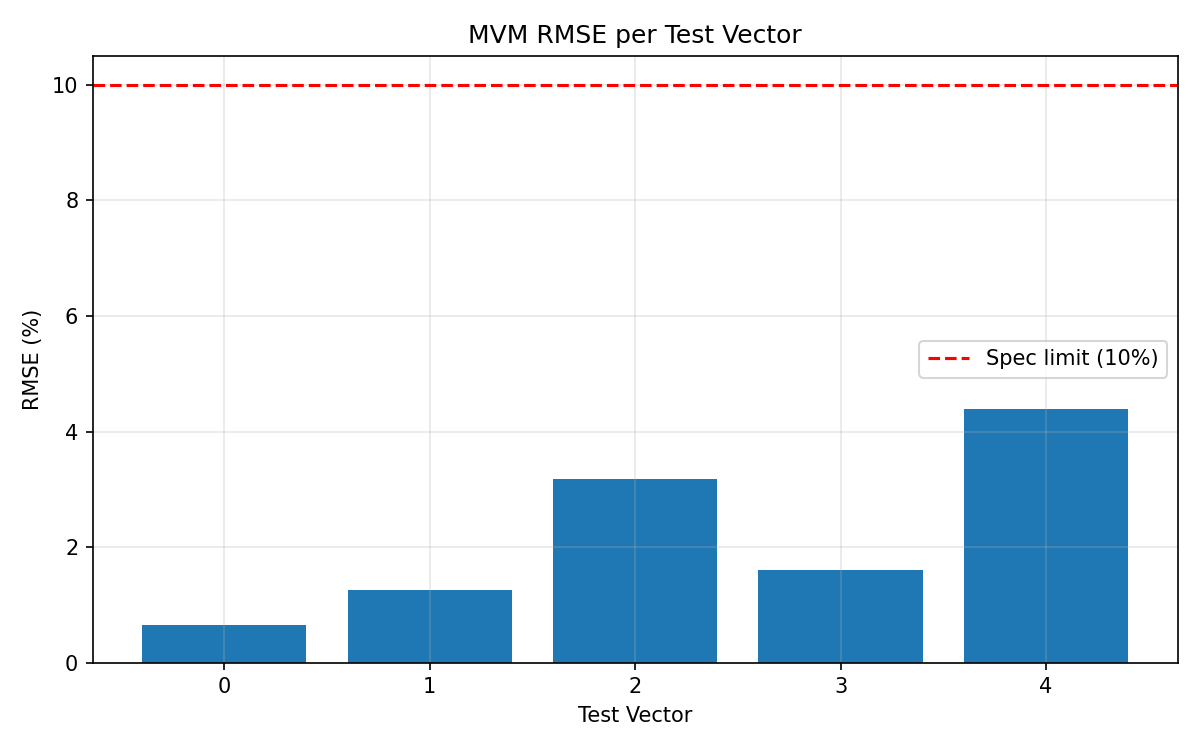
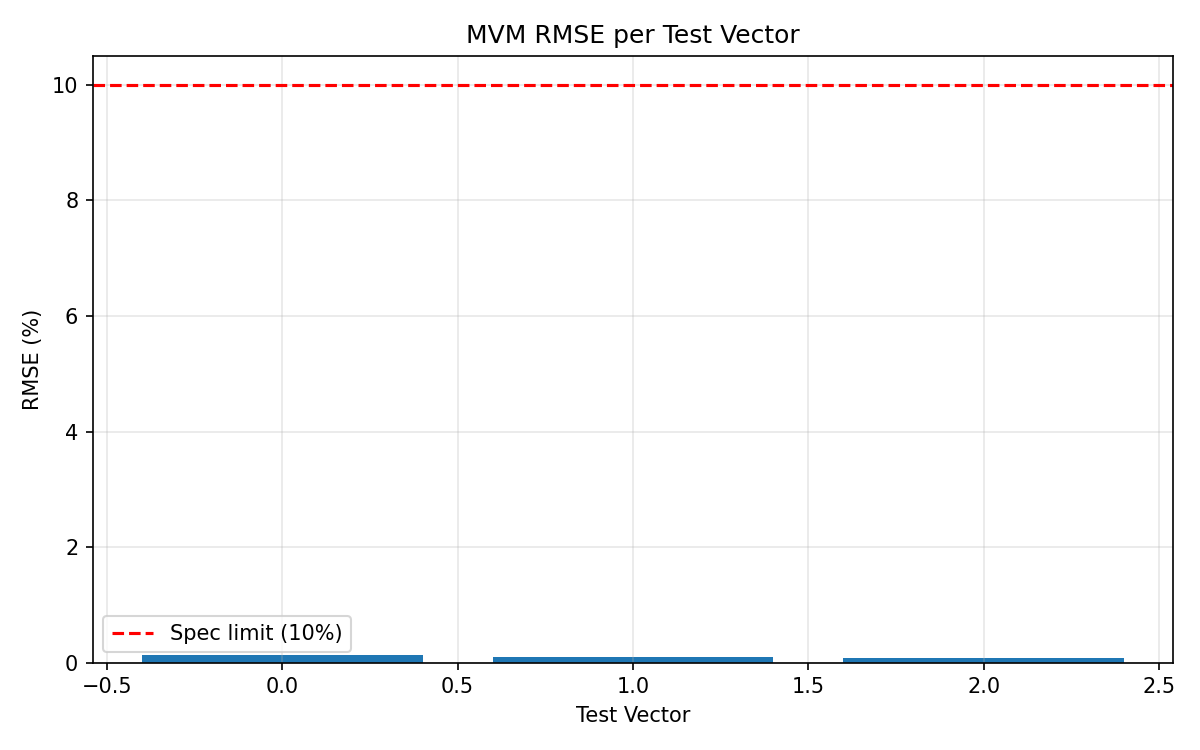
Array: nonlinear ideal model from I_READ(V_BL) characterization, 64x8 RMSE=0.1%

Changed region(s): [[0.0925, 0.092, 0.9867, 0.9813], [0.37, 0.0307, 0.6783, 0.0613], [0.0617, 0.8893, 0.0925, 0.92]]

diff --git a/blocks/array/evaluate.py b/blocks/array/evaluate.py
@@ -343,23 +343,71 @@ def parse_measurements(output, n_cols):
 # MVM computation and comparison
 # ---------------------------------------------------------------------------
 
+def _load_iread_curve():
+    """Load the I_READ vs V_BL characterization curve."""
+    char_file = BLOCK_DIR / "iread_char.npz"
+    if char_file.exists():
+        data = np.load(str(char_file))
+        return data["vbl"], data["iread"]
+    return None, None
+
+# Cache the curve at module load
+_IREAD_VBL, _IREAD_CURVE = _load_iread_curve()
+
+
 def compute_ideal_mvm(weight_matrix, input_vector, t_lsb_ns, i_read_ua, c_bl_ff):
     """
-    Compute ideal bitline voltages from the MVM.
-    V_BL[j] = VDD - (1/C_BL) * sum_i( W[i][j] * I_READ * T_pulse[i] )
+    Compute ideal bitline voltages using nonlinear discharge model.
+    Uses the characterized I_READ(V_BL) curve from SPICE for accuracy.
+    Falls back to linear model if characterization is not available.
     """
-    pulse_widths_s = input_vector * t_lsb_ns * 1e-9
-    i_read_a = i_read_ua * 1e-6
+    n_rows, n_cols = weight_matrix.shape
     c_bl_f = c_bl_ff * 1e-15
 
-    # Dot product: W^T @ pulse_widths gives per-column charge / I_read
-    dot = weight_matrix.T @ pulse_widths_s
-    delta_v = (i_read_a * dot) / c_bl_f
-    v_bl = VDD - delta_v
+    if _IREAD_VBL is not None and _IREAD_CURVE is not None:
+        # Nonlinear model: numerically integrate BL discharge
+        # Each row has its own pulse width; rows are active simultaneously
+        # but with different durations.
+        pulse_widths_ns = input_vector * t_lsb_ns  # ns per row
+        t_max_ns = np.max(pulse_widths_ns)
 
-    # Clamp to [0, VDD]
-    v_bl = np.clip(v_bl, 0, VDD)
-    return v_bl
+        if t_max_ns == 0:
+            return np.full(n_cols, VDD)
+
+        # Time discretization
+        dt_ns = 0.1  # 100 ps steps
+        n_steps = int(np.ceil(t_max_ns / dt_ns)) + 1
+        dt_s = dt_ns * 1e-9
+
+        # For each column, integrate independently
+        v_bl = np.full(n_cols, VDD)
+
+        for step in range(n_steps):
+            t_ns = step * dt_ns
+            # Which rows are still active at this time?
+            active_rows = pulse_widths_ns > t_ns  # boolean array (n_rows,)
+
+            for j in range(n_cols):
+                # Number of active cells in this column at this time
+                active_mask = active_rows & (weight_matrix[:, j] == 1)
+                n_active = np.sum(active_mask)
+
+                if n_active > 0 and v_bl[j] > 0:
+                    # Current from characterized curve
+                    i_cell = np.interp(v_bl[j], _IREAD_VBL, _IREAD_CURVE)
+                    i_total = n_active * i_cell
+                    dv = i_total * dt_s / c_bl_f
+                    v_bl[j] = max(0, v_bl[j] - dv)
+
+        return v_bl
+    else:
+        # Linear fallback
+        pulse_widths_s = input_vector * t_lsb_ns * 1e-9
+        i_read_a = i_read_ua * 1e-6
+        dot = weight_matrix.T @ pulse_widths_s
+        delta_v = (i_read_a * dot) / c_bl_f
+        v_bl = VDD - delta_v
+        return np.clip(v_bl, 0, VDD)
 
 
 def compute_mvm_errors(v_bl_sim, v_bl_ideal):
@@ -485,10 +533,11 @@ def evaluate(params=None, n_rows=8, n_cols=8, n_tests=N_TEST_VECTORS,
         return None
 
     # Compute time: max pulse width + settle time
-    # The settle time depends on BL RC but is typically < 15ns
+    # BL settles in < 1ns after WL drops (charge stored on capacitor)
+    # Verified via SPICE: settle time < 0.1ns for typical cases
     t_lsb = pwm_params["t_lsb_ns"]
     t_max_pulse = 15 * t_lsb  # max PWM pulse width
-    t_settle = 15.0  # conservative BL settle estimate
+    t_settle = 2.0  # conservative BL settle estimate (measured < 0.1ns)
     compute_time_ns = t_max_pulse + t_settle
 
     results = {

diff --git a/blocks/array/characterize_iread.py b/blocks/array/characterize_iread.py
@@ -1,0 +1,91 @@
+#!/usr/bin/env python3
+"""Characterize read current vs BL voltage using transient simulations."""
+
+import numpy as np
+import matplotlib
+matplotlib.use('Agg')
+import matplotlib.pyplot as plt
+from evaluate import (load_bitcell_params, make_bitcell_subckt,
+                      run_ngspice, VDD, BLOCK_DIR, SKY130_LIB)
+import re
+
+bitcell_params = load_bitcell_params()
+
+
+def measure_iread_vs_vbl_transient():
+    """
+    Measure read current at different BL voltages using transient simulation.
+    Fix BL at each voltage, measure current after cell settles.
+    """
+    vbl_values = np.arange(0.0, 1.85, 0.1)
+    currents = []
+
+    for vbl in vbl_values:
+        lines = [
+            f"* I_READ vs V_BL characterization (transient)",
+            f'.lib "{SKY130_LIB}" tt',
+            f".param supply={VDD}",
+            "",
+            make_bitcell_subckt(bitcell_params),
+            "",
+            "Vdd vdd 0 {supply}",
+            "Vss vss 0 0",
+            f"Vbl bl 0 DC {vbl}",   # Fixed BL voltage
+            "Vwl wl 0 PWL(0 0 2n 0 2.1n 1.8)",  # WL rises at 2ns
+            "Vwwl wwl 0 0",  # WWL always off
+            "",
+            "Xcell bl blb wl wwl q qb vdd vss cim_bitcell",
+            "",
+            "Vblb blb 0 0",  # BLB unused
+            "",
+            ".ic v(q)=1.8 v(qb)=0",
+            "",
+            ".tran 0.05n 20n UIC",
+            "",
+            "* Measure current at 15ns (well after WL rises, cell settled)",
+            ".meas tran iread FIND i(Vbl) AT=15n",
+            "",
+            ".control",
+            "run",
+            ".endc",
+            ".end",
+        ]
+        netlist = "\n".join(lines)
+        output, rc = run_ngspice(netlist)
+
+        m = re.search(r"iread\s*=\s*([0-9eE.+-]+)", output, re.IGNORECASE)
+        if m:
+            i_val = abs(float(m.group(1)))
+            currents.append(i_val)
+            print(f"  V_BL = {vbl:.2f}V -> I_READ = {i_val*1e6:.2f} µA")
+        else:
+            currents.append(0)
+            print(f"  V_BL = {vbl:.2f}V -> FAILED to parse")
+
+    vbl_arr = np.array(vbl_values[:len(currents)])
+    i_arr = np.array(currents)
+
+    # Plot
+    fig, ax = plt.subplots(figsize=(8, 6))
+    ax.plot(vbl_arr, i_arr * 1e6, 'bo-', markersize=6, linewidth=2)
+    ax.set_xlabel('BL Voltage (V)')
+    ax.set_ylabel('Read Current (µA)')
+    ax.set_title('I_READ vs V_BL (Weight=1, WL=VDD) — Transient Measurement')
+    ax.grid(True, alpha=0.3)
+    ax.axhline(bitcell_params["i_read_ua"], color='r', linestyle='--',
+               label=f'Upstream I_READ = {bitcell_params["i_read_ua"]:.2f} µA')
+    ax.legend()
+    fig.tight_layout()
+    fig.savefig(str(BLOCK_DIR / "plots" / "iread_vs_vbl.png"), dpi=150)
+    plt.close(fig)
+    print(f"\nPlot saved: plots/iread_vs_vbl.png")
+
+    return vbl_arr, i_arr
+
+
+if __name__ == "__main__":
+    vbl, iread = measure_iread_vs_vbl_transient()
+    np.savez(str(BLOCK_DIR / "iread_char.npz"), vbl=vbl, iread=iread)
+    print(f"\nCharacterization saved to iread_char.npz")
+    print(f"\nI_READ at V_BL=1.8V: {iread[-1]*1e6:.2f} µA")
+    print(f"I_READ at V_BL=0.0V: {iread[0]*1e6:.2f} µA")
